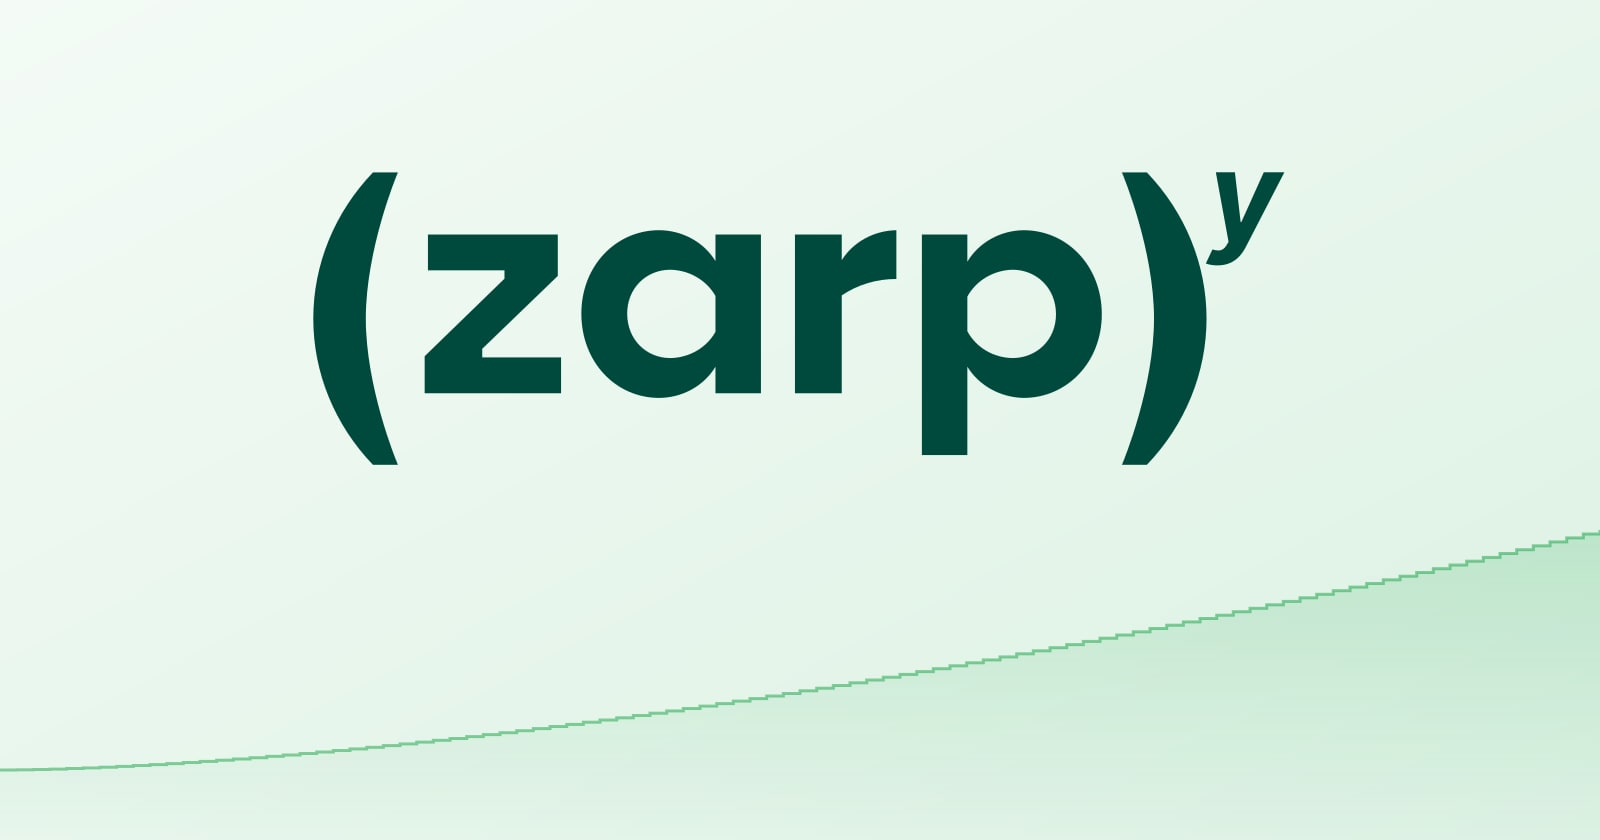
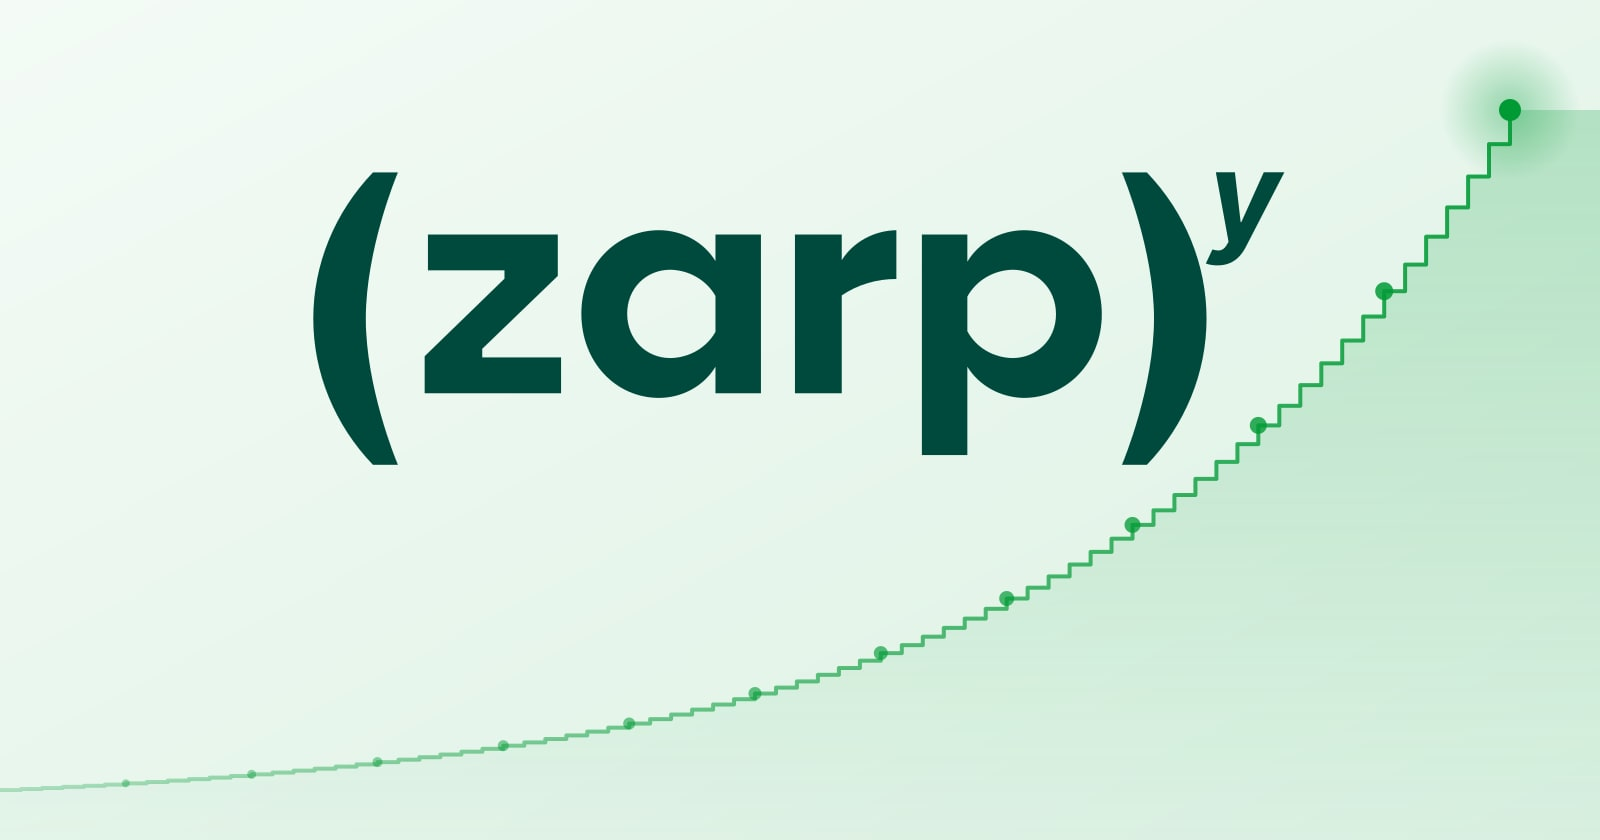
Steepen the yield curve on the ZARPY hero image
The stepped curve now bends sharply upward to a highlighted end point,
reading more clearly as yield accruing over time.

diff --git a/src/content/news/introducing-zarpy.md b/src/content/news/introducing-zarpy.md
@@ -6,7 +6,7 @@ description: >-
 pubDate: 2026-10-20T08:00:00Z
 author: ZARP Stablecoin
 heroImage: /img/news/introducing-zarpy.jpeg
-heroImageAlt: The ZARPY logo above a rising, stepped green line representing yield that accrues hour by hour
+heroImageAlt: The ZARPY logo beside a stepped green line that climbs ever more steeply to a highlighted high point, representing yield accruing hour by hour
 tags:
   - Announcement
   - ZARPY
